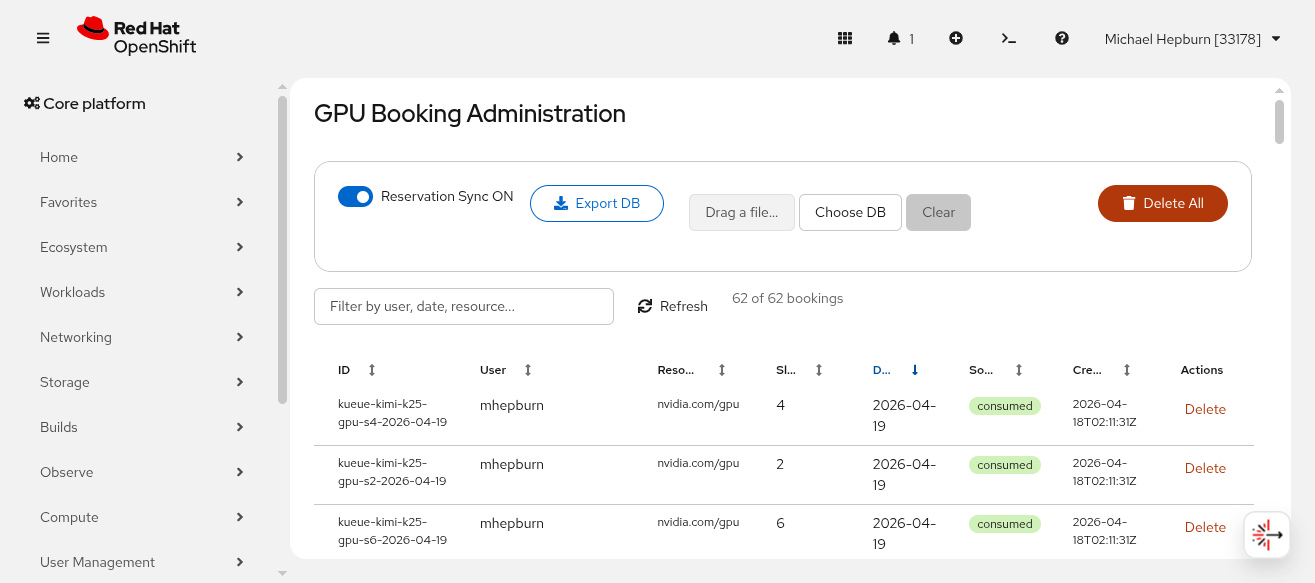
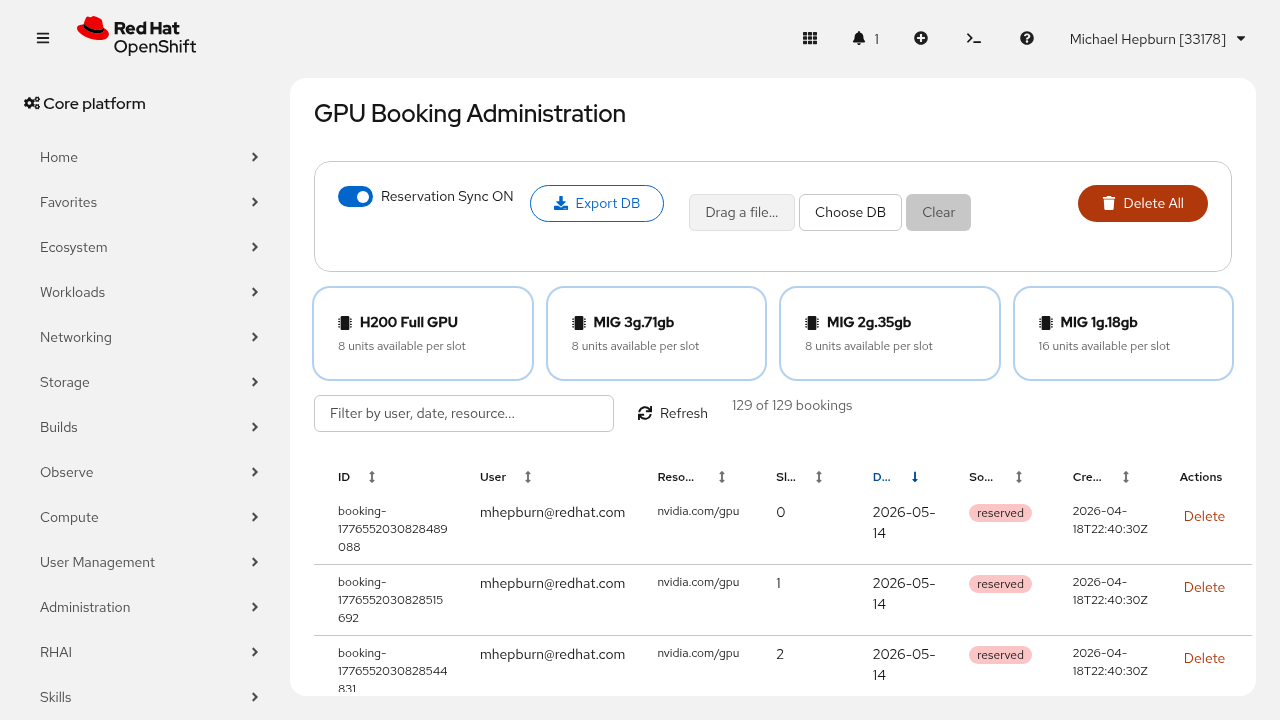
🫒 fix: add gpu select back to admin panel  🫒

diff --git a/src/docs/imageMap.ts b/src/docs/imageMap.ts
@@ -26,6 +26,7 @@ import resourceSelector from './images/resource-selector.png';
 import myBookingsCancelAll from './images/my-bookings-cancel-all.png';
 import cancelAllConfirm from './images/cancel-all-confirm.png';
 import cancelAllFiltered from './images/cancel-all-filtered.png';
+import adminResourceFilter from './images/admin-resource-filter.png';
 import slotStates from './images/slot-states.png';
 
 const imageMap: Record<string, string> = {
@@ -57,6 +58,7 @@ const imageMap: Record<string, string> = {
   'images/my-bookings-cancel-all.png': myBookingsCancelAll,
   'images/cancel-all-confirm.png': cancelAllConfirm,
   'images/cancel-all-filtered.png': cancelAllFiltered,
+  'images/admin-resource-filter.png': adminResourceFilter,
   'images/slot-states.png': slotStates,
 };
 

diff --git a/src/docs/admin.md b/src/docs/admin.md
@@ -33,33 +33,19 @@ The header bar shows:
 
 ---
 
-## Summary Tiles
+## Resource Filter
 
-Four resource tiles show the total number of active bookings per GPU type (H200 Full GPU, MIG 3g.71gb, MIG 2g.35gb, MIG 1g.18gb) along with the total unit count.
+The resource selector cards filter the bookings table by GPU type. All resource types are selected by default. Click a card to show only that resource type; Ctrl+click (Cmd+click on Mac) to toggle individual types on or off.
 
-Click a tile to filter the bookings table to that resource type. Click again to clear the filter.
+The booking count updates to reflect the current filter, e.g. "18 of 129 bookings".
 
-![images/admin-summary-tiles.png](images/admin-summary-tiles.png)
+![images/admin-resource-filter.png](images/admin-resource-filter.png)
 
 ---
 
-## Filters
+## Text Filter
 
-### Source Filter
-
-Filter bookings by their source:
-
-| Filter | Description |
-|--------|-------------|
-| **All** | Show all bookings (default) |
-| **Reserved** | Show only user-created reservations |
-| **Consumed** | Show only Kueue auto-bookings from active workloads |
-
-Each button shows a count of matching bookings.
-
-### Text Filter
-
-The search box in the bookings table header filters by ID, user, resource, date, email, description, or slot type. Filtering is case-insensitive and matches substrings.
+The search box in the toolbar filters by ID, user, resource, date, source, or description. Filtering is case-insensitive and matches substrings. This works in combination with the resource selector above.
 
 ---
 
